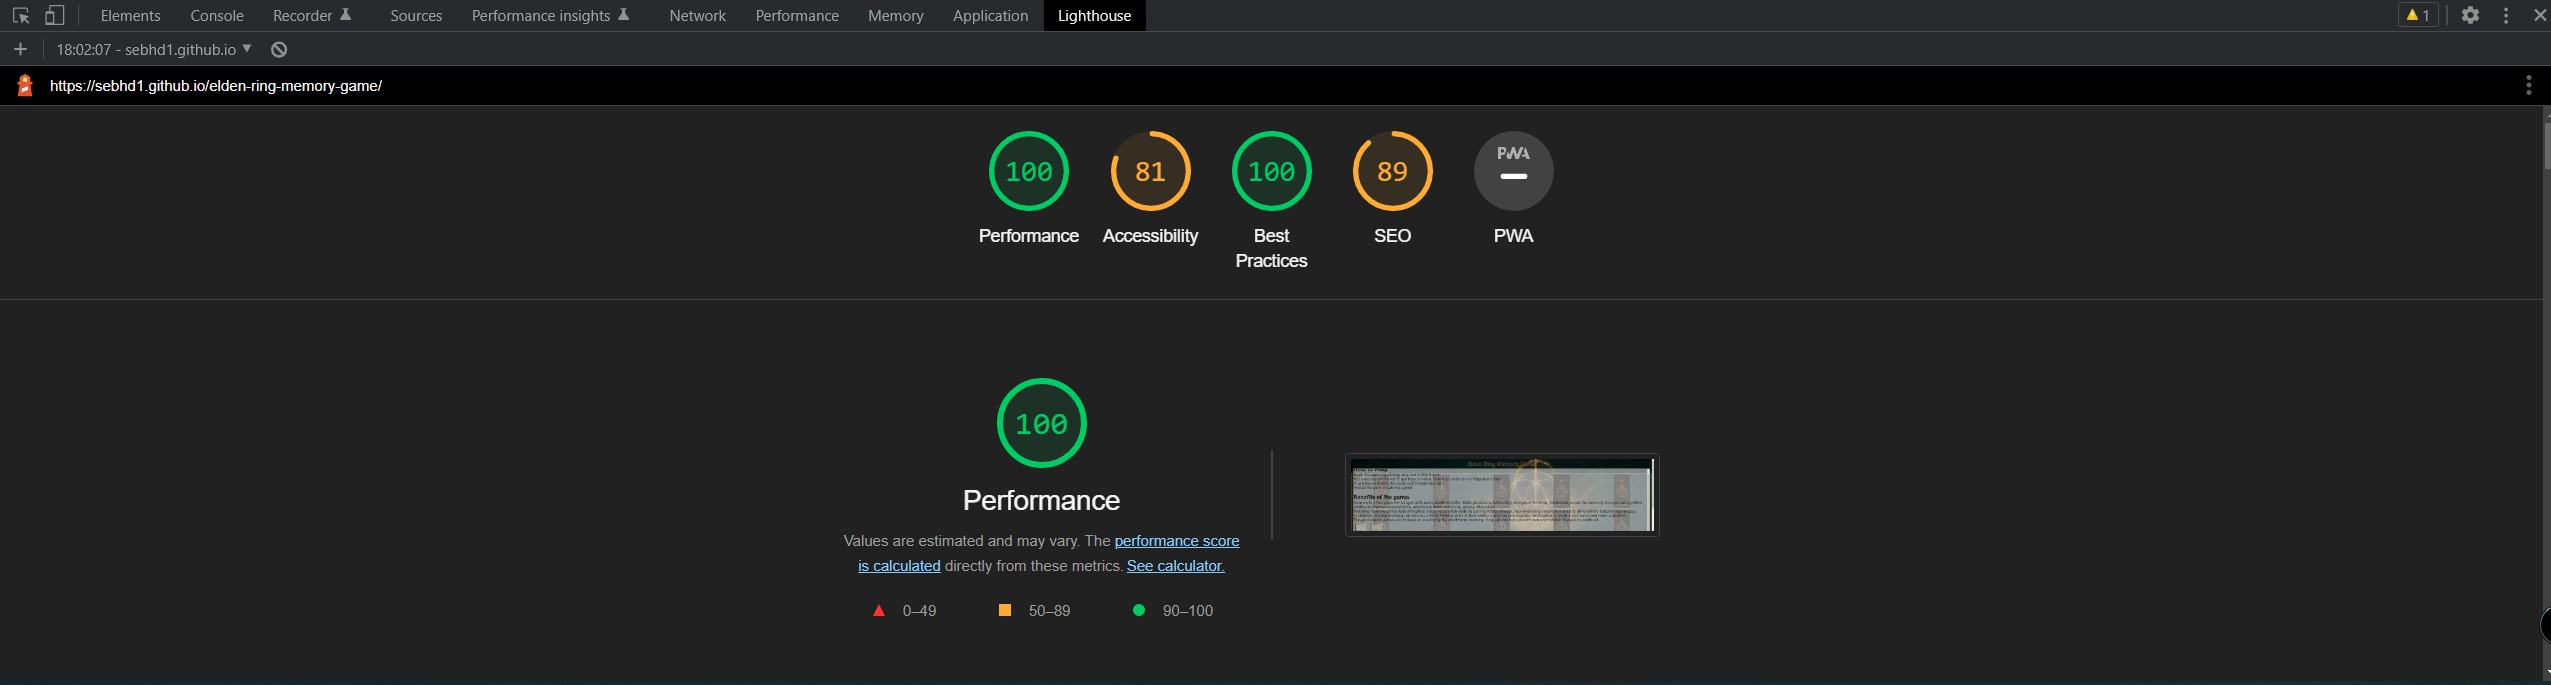
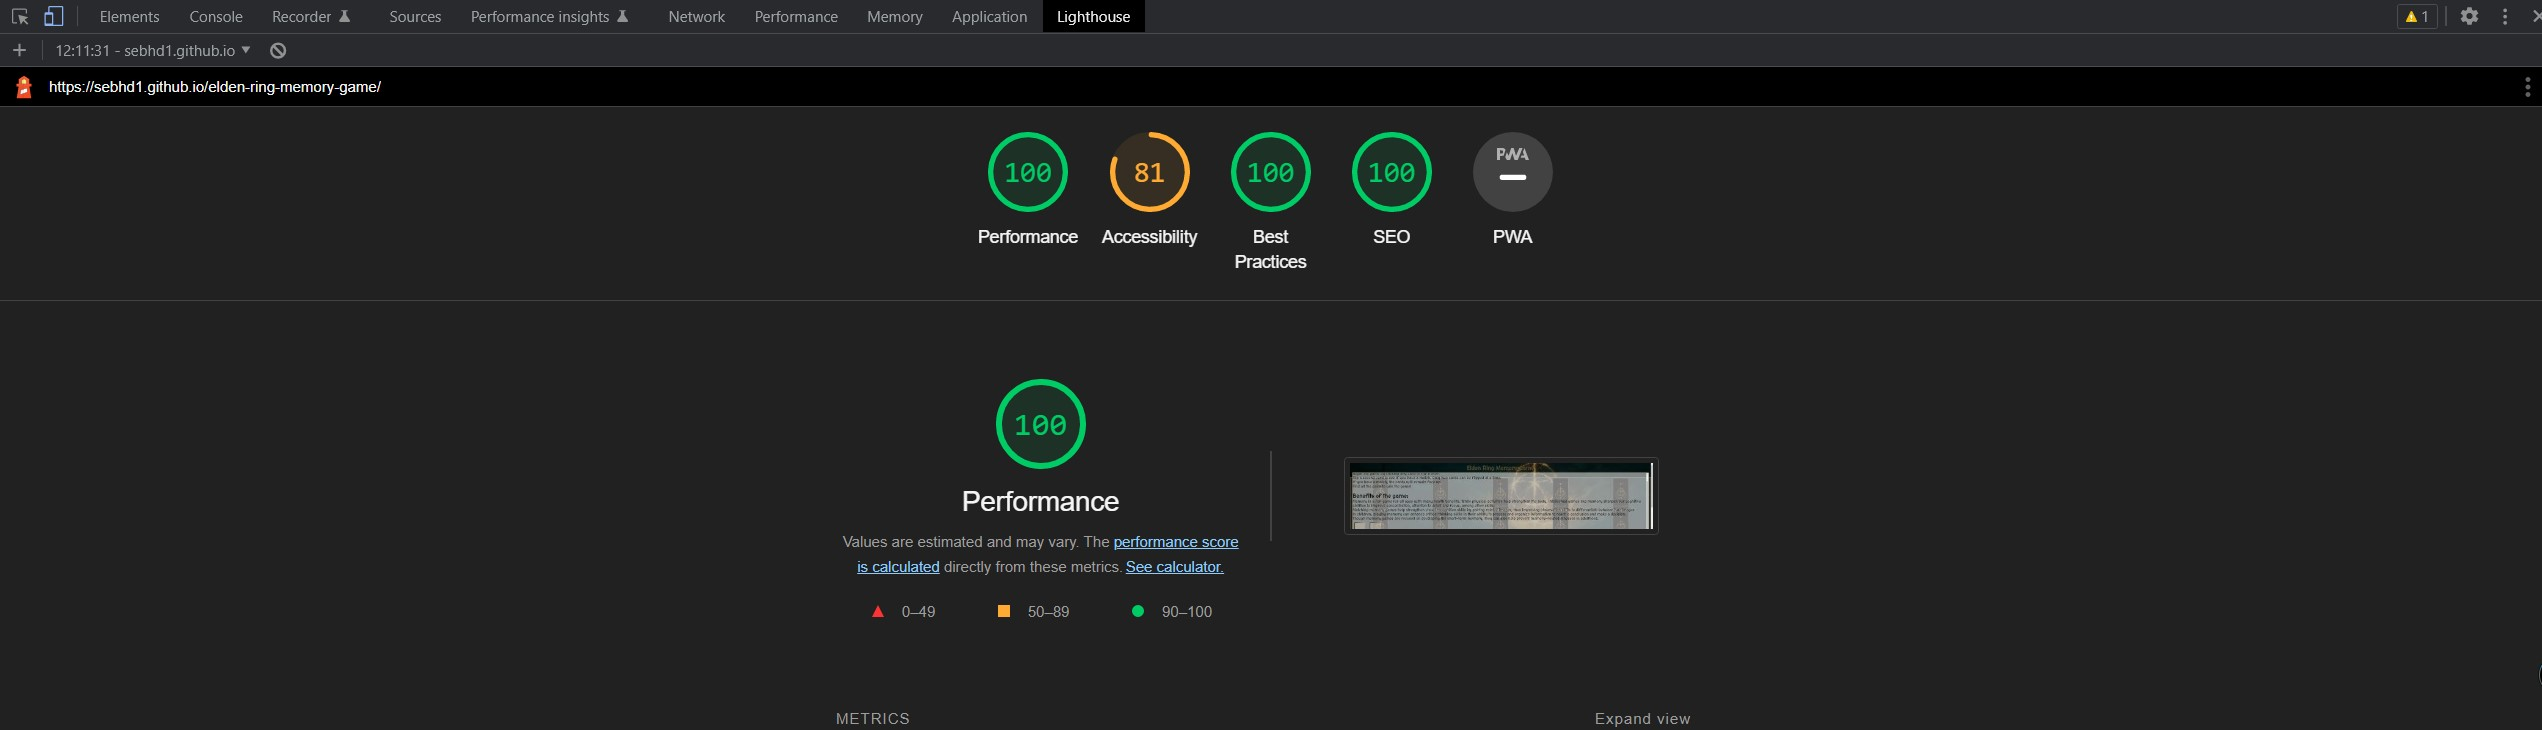
Updated lighthouse test score results after adding meta tags to HTML

diff --git a/README.md b/README.md
@@ -154,7 +154,7 @@ To make a copy or ‘fork’ the repository
 
 - Information for the landing page overlay, "Benefits of the game" was taken from the [Walnut Montessori-Preschool Academy](https://www.walnutmontessori-preschool.com/why-kids-should-play-memory) website.
 
-- Feedback and comments from the reviewer of my first project were taken into account for this project when running tests and identifying and fixing bugs.
+- Feedback and comments from the reviewer of my PP1 were taken into account for this project when running tests and identifying and fixing bugs.
 
 - The pictures used for the cards were taken from the official Elden Ring Wiki - [eldenring.wiki.fextralife.com](https://eldenring.wiki.fextralife.com/Elden+Ring+Wiki)
 
